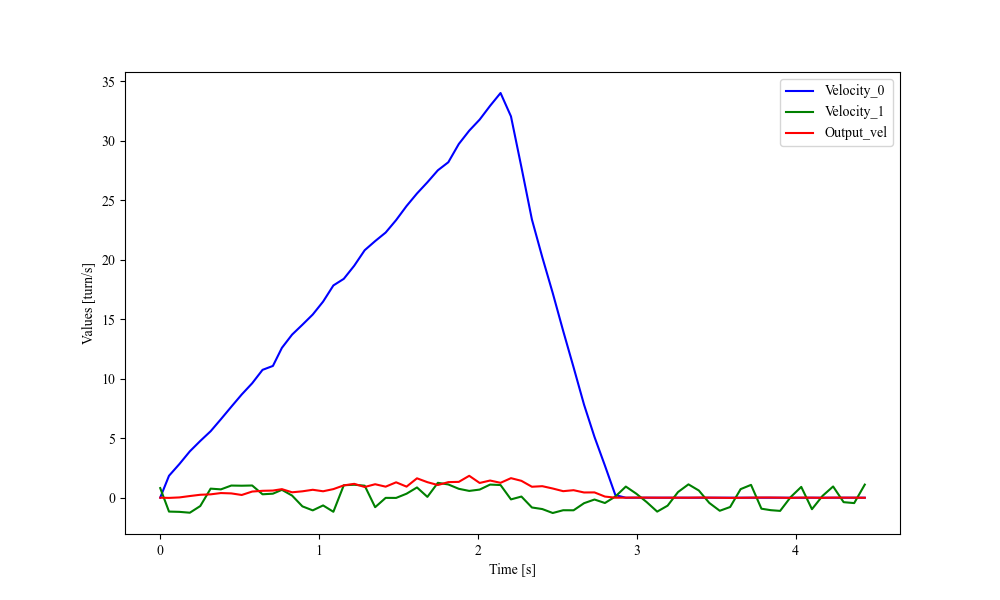
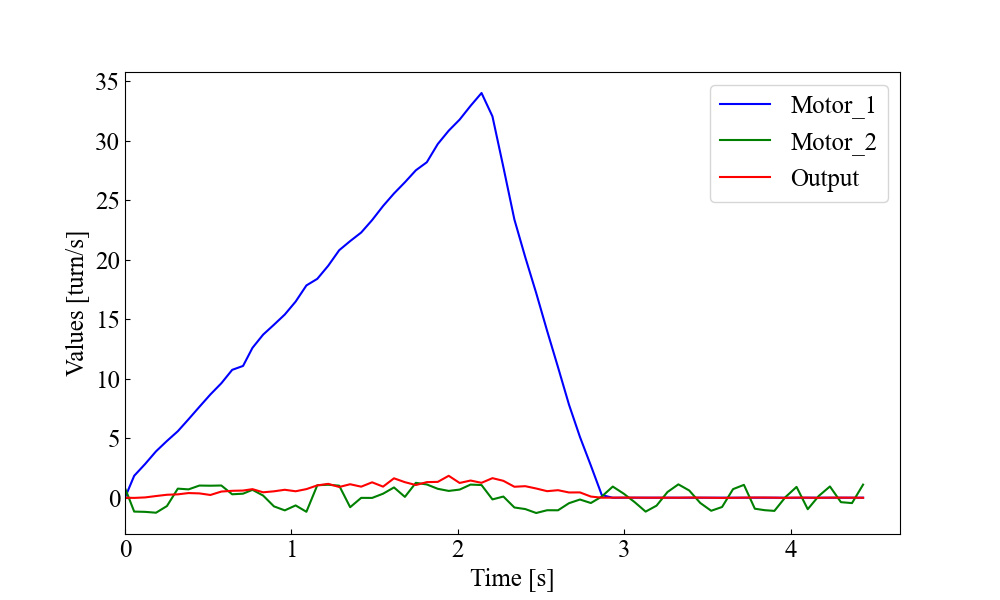
up

diff --git a/ODRIVE_only/202508/plot.py b/ODRIVE_only/202508/plot.py
@@ -8,7 +8,7 @@ rcParams['font.family'] = 'Times New Roman'
 rcParams['font.size'] = 18
 
 # CSVファイルを読み込む
-csv_file = "csv/two_pos_trac_20250801_1947.csv"  # CSVファイルのパスを指定してください
+csv_file = "csv/two_pos_trac_20250801_1645.csv"  # CSVファイルのパスを指定してください
 data = pd.read_csv(csv_file)
 
 # データを取得
